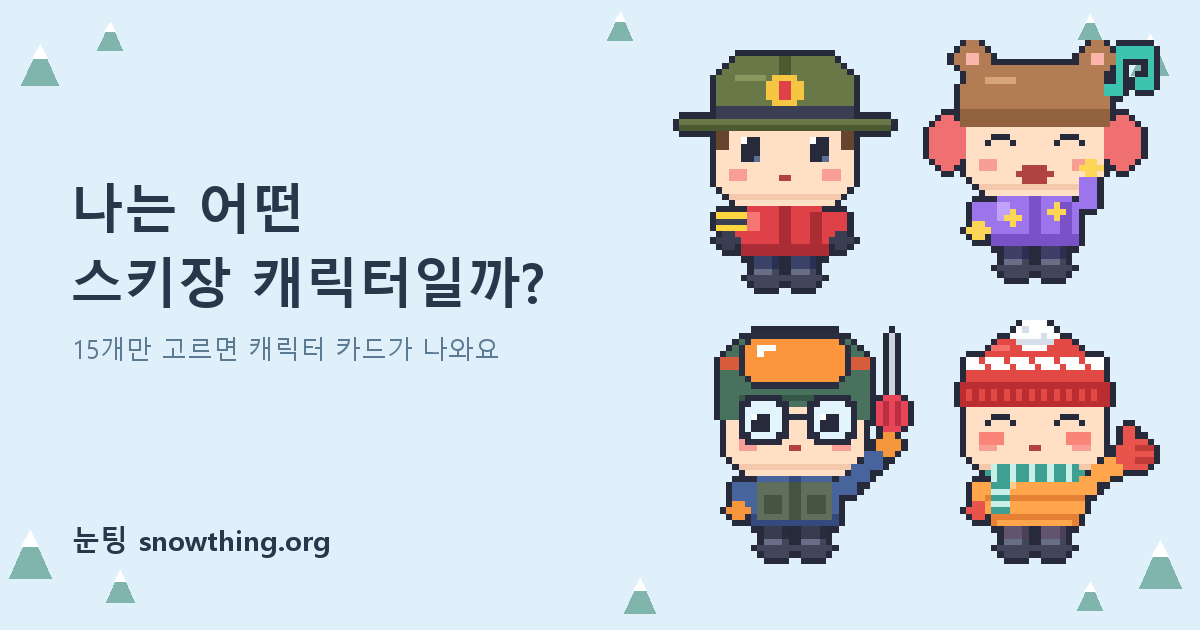
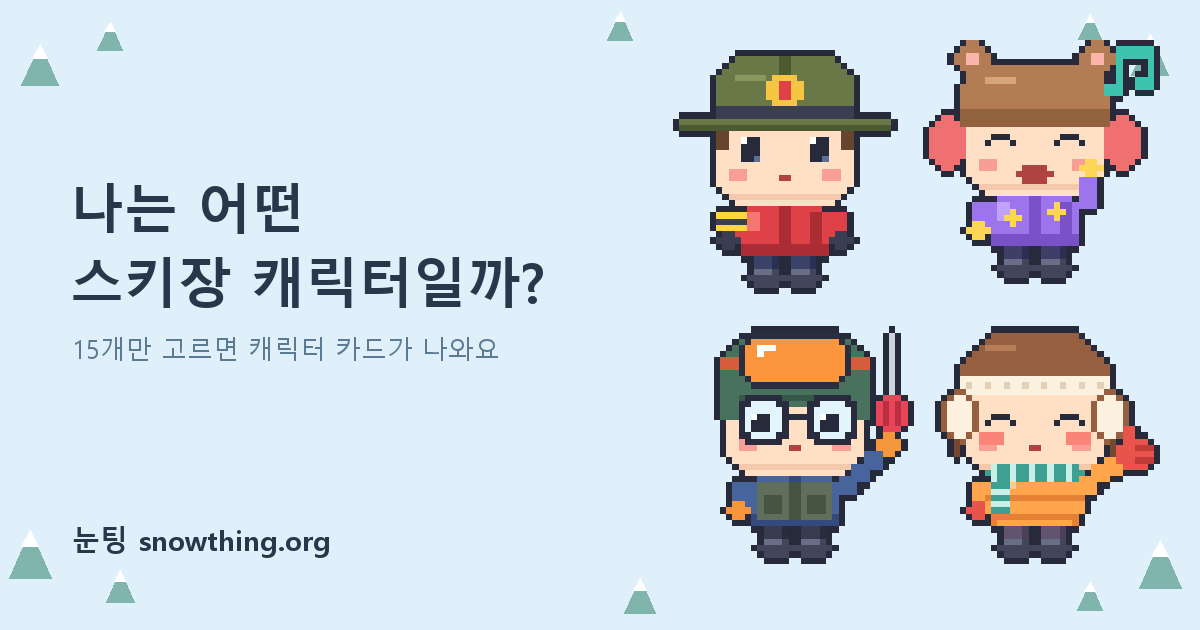
fix: 인간 핫팩 모자를 귀달이 털모자로 바꾸기

Changed region(s): [[0.7708, 0.5127, 0.9558, 0.7238]]

diff --git a/scripts/generate-character-test-images.py b/scripts/generate-character-test-images.py
@@ -311,7 +311,7 @@ def grinder():
 
 
 def hot_pack():
-    """인간 핫팩: 노르딕 방울 비니, 귤색 패딩, 줄무늬 목도리, 발그레한 볼, 엄지를 세운 손."""
+    """인간 핫팩: 귀달이 털모자, 귤색 패딩, 줄무늬 목도리, 발그레한 볼, 엄지를 세운 손."""
     c = Canvas()
     jacket, dark, light = (255, 166, 77, 255), (230, 128, 52, 255), (255, 204, 140, 255)
     mitten = (232, 84, 76, 255)
@@ -322,23 +322,21 @@ def hot_pack():
     c.rect(13, 31, 14, 1, dark)
     c.rect(14, 26, 3, 1, light)
     head(c, "smile")
-    # 노르딕 방울 비니: 머리를 다 덮는다. 빨간 몸통에 흰 줄무늬와 하트 무늬, 빨간 골지 밑단, 크고 폭신한 방울
-    red, red_dark, red_light = (226, 72, 68, 255), (186, 46, 50, 255), (244, 112, 104, 255)
-    snow, snow_dark = (255, 255, 255, 255), (214, 222, 234, 255)
-    c.blob(9, 3, 22, 9, red, radius=5)
-    c.rect(9, 7, 22, 3, red)
-    c.rect(9, 6, 22, 2, snow)
-    for x in range(10, 30, 4):
-        c.dot(x + 1, 6, red)
-        c.dot(x + 2, 7, red)
-    c.rect(13, 4, 3, 1, red_light)
-    c.rect(8, 10, 24, 4, red_dark)
-    for x in range(9, 31, 2):
-        c.rect(x, 11, 1, 2, red)
-    c.blob(16, 0, 8, 5, snow, radius=2)
-    c.rect(17, 3, 6, 1, snow_dark)
-    c.dot(18, 1, snow_dark)
-    c.dot(21, 2, snow_dark)
+    # 귀달이 털모자: 갈색 모자 몸통, 크림색 털 안감이 이마와 양쪽 귀덮개에 보인다
+    hat, hat_dark, hat_light = (150, 96, 64, 255), (118, 72, 46, 255), (182, 126, 88, 255)
+    fur, fur_dark = (252, 240, 222, 255), (226, 208, 184, 255)
+    c.blob(8, 2, 24, 10, hat, radius=5)
+    c.rect(8, 7, 24, 3, hat)
+    c.rect(12, 4, 5, 1, hat_light)
+    c.rect(8, 9, 24, 3, fur)
+    for x in range(9, 31, 3):
+        c.dot(x, 10, fur_dark)
+    c.blob(5, 11, 6, 9, hat, radius=2)
+    c.blob(29, 11, 6, 9, hat, radius=2)
+    c.blob(6, 12, 4, 7, fur, radius=1)
+    c.blob(30, 12, 4, 7, fur, radius=1)
+    c.rect(7, 19, 1, 3, hat_dark)
+    c.rect(32, 19, 1, 3, hat_dark)
     # 발그레한 볼
     c.rect(11, 18, 4, 2, (250, 132, 120, 255))
     c.rect(25, 18, 4, 2, (250, 132, 120, 255))
